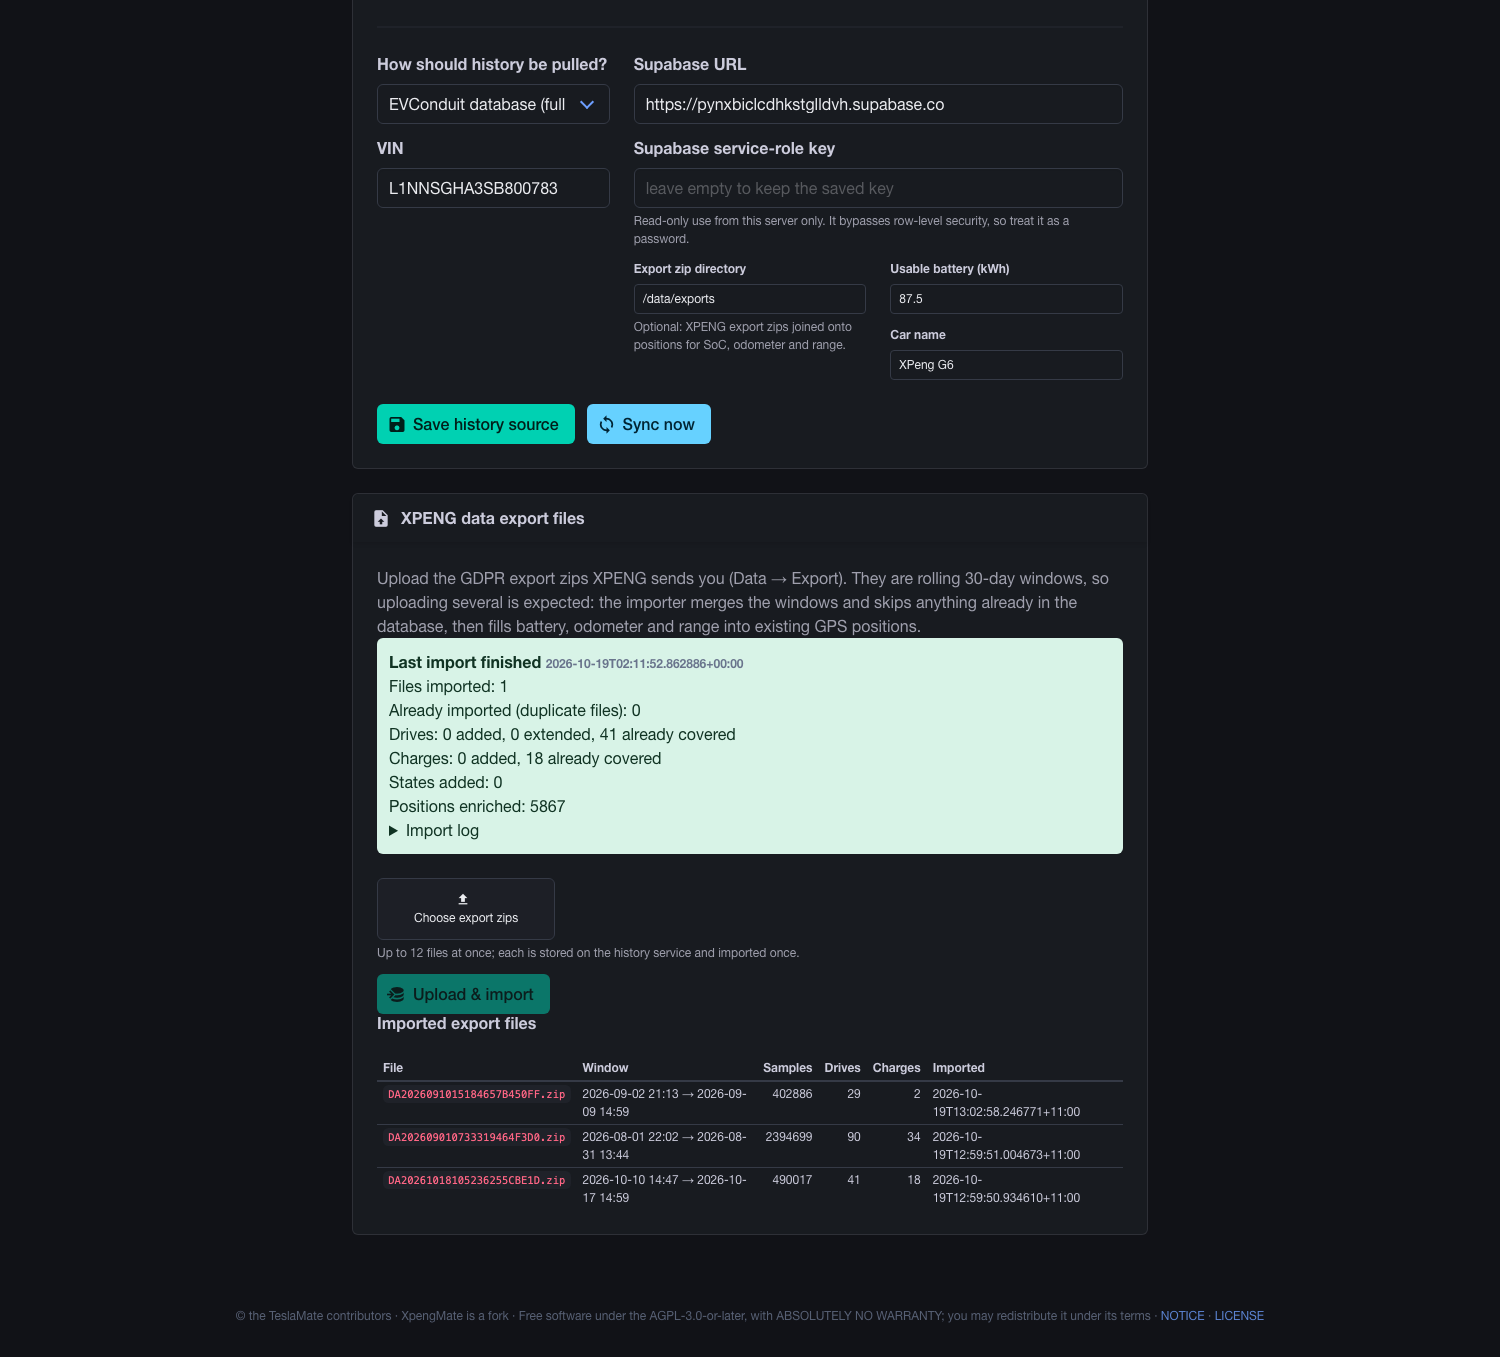
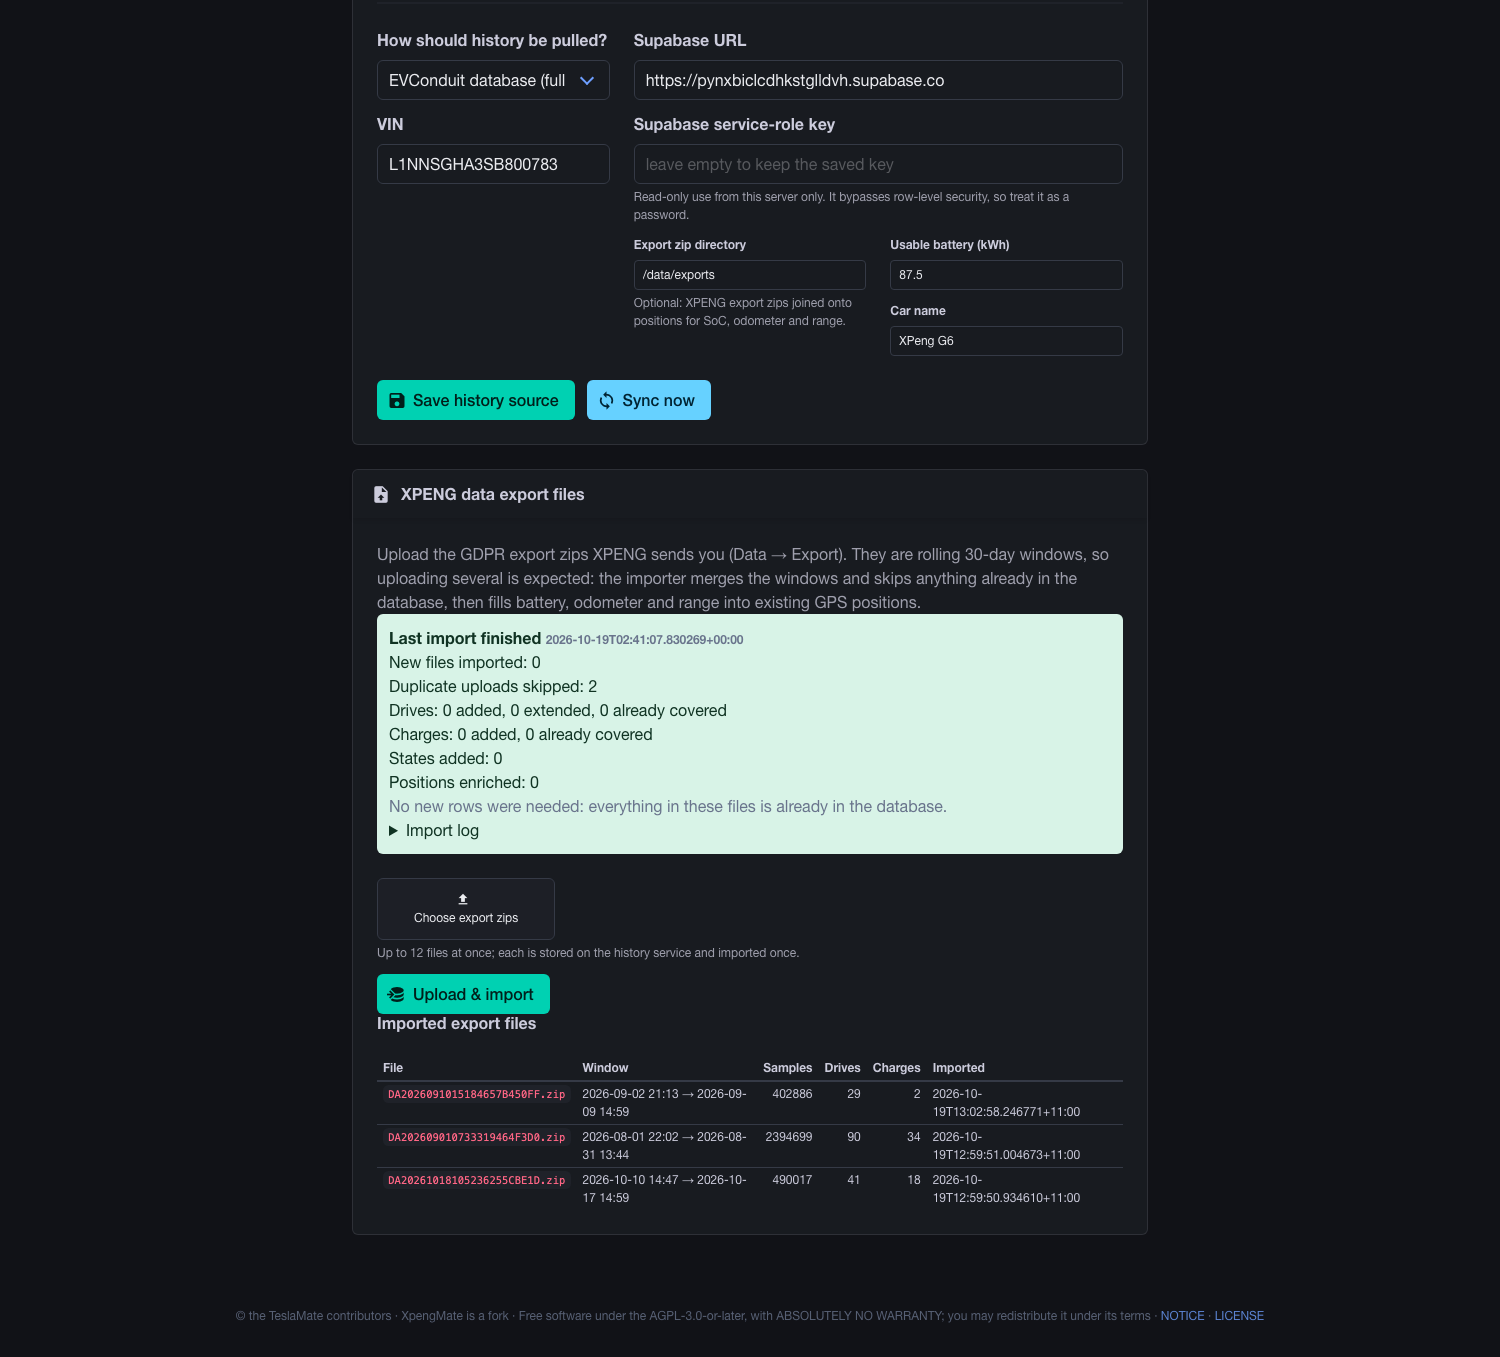
settings: reliable multipart upload for export zips with explicit results
The in-page LiveView file picker gave no visible result after clicking and was
fragile for large multi-file selections. The export card is now a normal
multipart form POST to a controller: Plug streams the parts, the files are
forwarded to the history service, and the redirect carries a flash confirmation.
The form is phx-update=ignore so a status poll cannot clear the chosen files.

The card's summary now says 'New files imported' / 'Duplicate uploads skipped'
and explains 'No new rows were needed: everything in these files is already in
the database' when an import only confirms existing coverage - which is the
normal outcome for windows already covered by EVConduit or the live logger.

Verified with a real headless-browser click selecting two zips: both reach the
history service, the flash confirms, and the refreshed summary reports the
duplicate/coverage counts.

diff --git a/README.md b/README.md
@@ -153,7 +153,11 @@ never regenerated: the token pair is sealed against it.
 
 XPENG's GDPR data exports are rolling 30-day windows, so the useful workflow is
 "upload a handful of them". The **XPENG data export files** card on
-`/xpengmate` accepts up to 12 zips at once and imports them into the database:
+`/xpengmate` accepts up to 12 zips at once, posts them as a normal multipart
+form (reliable for large selections), and redirects back with an explicit
+confirmation: the card then reports "new files imported", "duplicate uploads
+skipped", added/extended/covered rows, and says outright when nothing new was
+needed. It imports into the database:
 
 * each zip is parsed for drives (speed-integrated distance, odometer, SoC
   bounds, peak power), charging sessions (energy drawn at the wall and into the
@@ -166,6 +170,10 @@ XPENG's GDPR data exports are rolling 30-day windows, so the useful workflow is
 * the export's 1 Hz SoC/odometer/range is joined onto existing GPS positions;
 * files are remembered by content hash, so re-uploading the same zip is a no-op,
   and the card lists every imported file with its window and row counts.
+
+Because the export has no GPS, an import can legitimately add **zero** rows when
+the uploaded windows are already covered by the live logger or EVConduit - the
+card says so instead of looking like a failure.
 
 Deliberately not imported: positions. The export has no coordinates, and the
 importer will not invent them.
